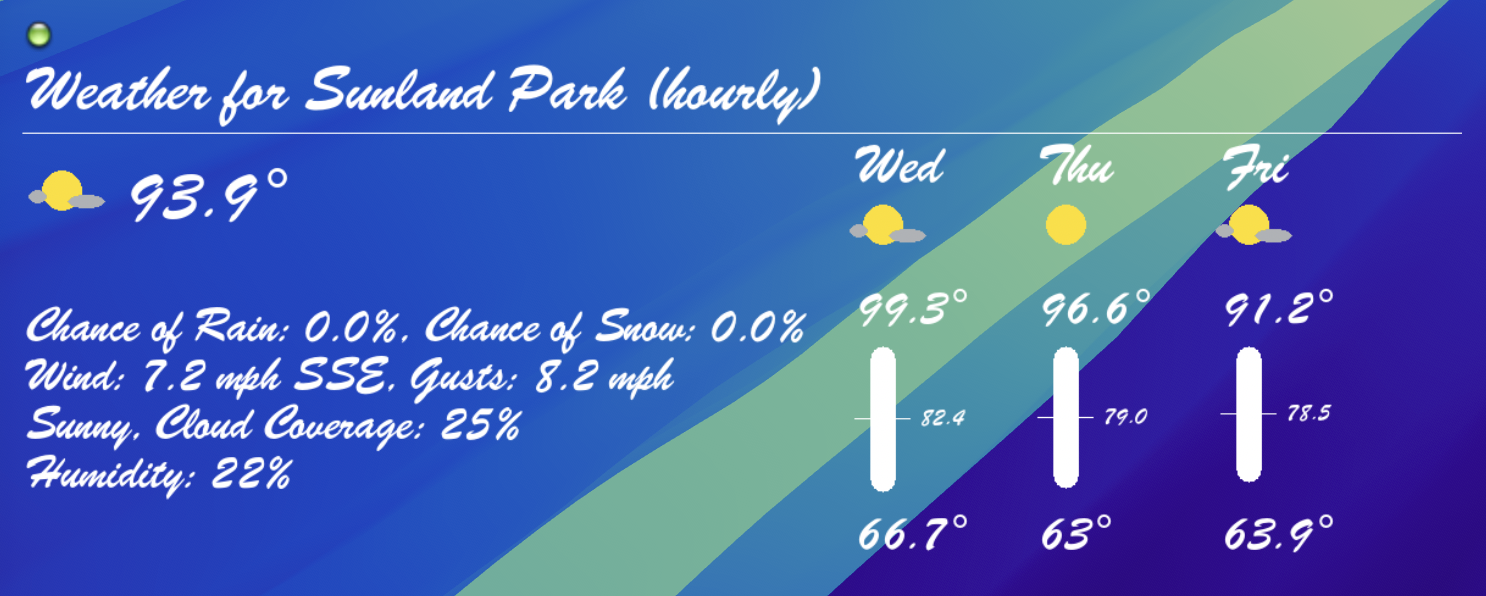
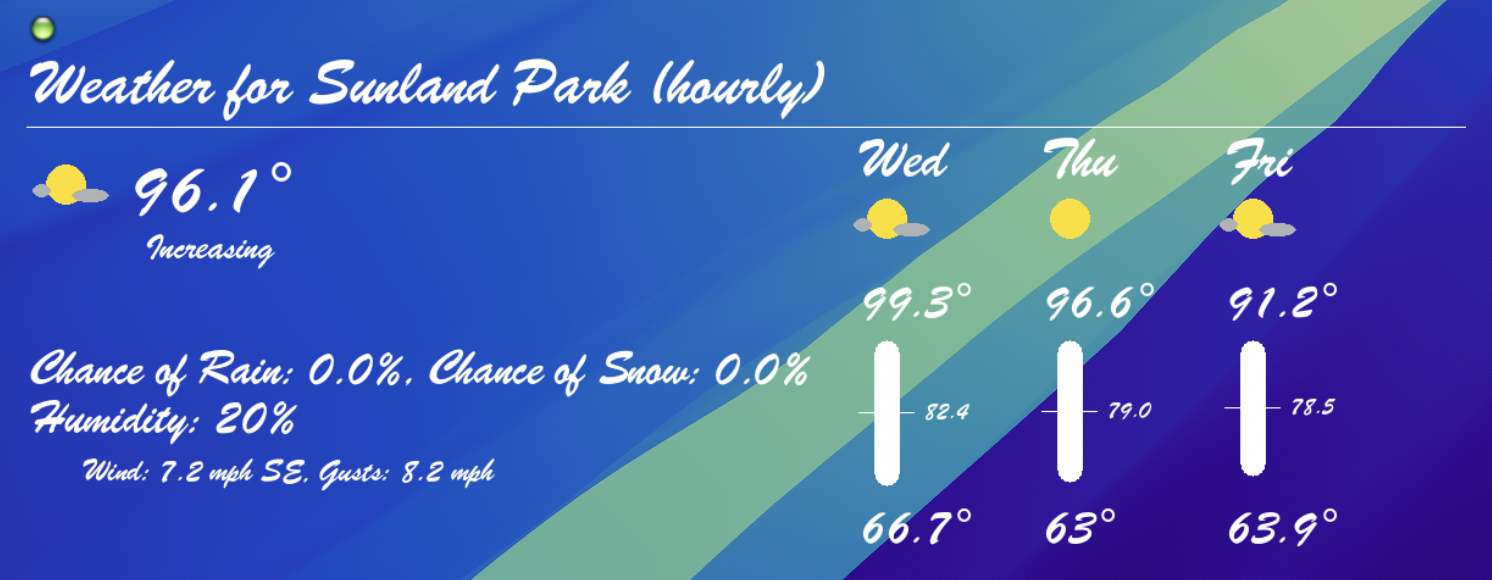
minor revisions to text/placements

diff --git a/app/Console/Commands/GenerateWeatherImage.php b/app/Console/Commands/GenerateWeatherImage.php
@@ -123,6 +123,20 @@ class GenerateWeatherImage extends Command
 
         $conditionText      = $this->current['condition']['text'];
 
+        // Daily data
+        foreach( $this->forecast as $index => $day ) {
+
+            if( $index == 0 ) {
+
+                $this->rain_chance      = number_format( $this->determineRaininess( $day ), 1 );
+                $this->snow_chance      = number_format( $this->determineSnowiness( $day ), 1 );
+
+            }
+
+            $this->temp_direction       = $this->determineHeatDirection( $day );
+
+        }
+
         // Make transparent
         imagesavealpha($image, true);
         $transparent = imagecolorallocatealpha($image, 0, 0, 0, 127);
@@ -147,6 +161,10 @@ class GenerateWeatherImage extends Command
         $text = $this->current["temp_{$this->heat_unit}"]. '°';
         imagettftext($image, $this->font_size+8, 0, $leftMargin + 80, $currentY-22, $this->font_color, $this->font_family, $text);
 
+        // Increasing/decreasing
+        $currentY += 40;
+        imagettftext($image, max( $this->font_size-12, 10 ), 0, $leftMargin + 96, $currentY-22, $this->font_color, $this->font_family, $this->temp_direction );
+
         // Alert data
         $currentY += 40;
         if (isset($data['alerts']['alert'][0])) {
@@ -154,20 +172,15 @@ class GenerateWeatherImage extends Command
             imagettftext($image, $this->font_size, 0, $leftMargin, $currentY, $this->font_color, $this->font_family, $text);
         }
 
-        // Averages
-        foreach( $this->forecast as $index => $day ) {
-
-            if( $index == 0 ) {
-
-                $this->rain_chance      = number_format( $this->determineRaininess( $day ), 1 );
-                $this->snow_chance      = number_format( $this->determineSnowiness( $day ), 1 );
-
-            }
-
-        }
+        // Snow/Rain
         $currentY += 40;
         $text = "Chance of Rain: {$this->rain_chance}%, Chance of Snow: {$this->snow_chance}%";
         imagettftext($image, $this->font_size-5, 0, $leftMargin, $currentY, $this->font_color, $this->font_family, $text);
+
+        // Humidity
+        $currentY += 40;
+        $humidityText = "Humidity: " . $this->current['humidity'] . "%";
+        imagettftext($image, $this->font_size-5, 0, $leftMargin, $currentY, $this->font_color, $this->font_family, $humidityText);
 
         // Wind
         $currentY += 40;
@@ -177,17 +190,14 @@ class GenerateWeatherImage extends Command
             $text .= ", Gusts: " . $this->current["gust_{$this->speed_unit}"] . " {$this->speed_unit}";
 
         }
-        imagettftext($image, $this->font_size-5, 0, $leftMargin, $currentY, $this->font_color, $this->font_family, $text);
+        imagettftext($image, max( $this->font_size-15, 10 ), 0, $leftMargin+45, $currentY, $this->font_color, $this->font_family, $text);
 
-        // Clouds
+        // Condition/Clouds
+        /*
         $currentY += 40;
         $text = "$conditionText, Cloud Coverage: " . $this->current['cloud'] . "%";
         imagettftext($image, $this->font_size-5, 0, $leftMargin, $currentY, $this->font_color, $this->font_family, $text);
-
-        // Humidity
-        $currentY += 40;
-        $humidityText = "Humidity: " . $this->current['humidity'] . "%";
-        imagettftext($image, $this->font_size-5, 0, $leftMargin, $currentY, $this->font_color, $this->font_family, $humidityText);
+        */
 
         // --- Right side: 3-day forecast ---
         $rightMargin = 650;
@@ -307,6 +317,34 @@ class GenerateWeatherImage extends Command
         $imagePath = public_path('images/out.png');
         imagepng($image, $imagePath);
         imagedestroy($image);
+    }
+
+    private function determineHeatDirection( $day )
+    {
+
+        $currentDateTime    = new \DateTime();
+
+        $futureDateTime     = new \DateTime();
+
+        $currentHour        = $currentDateTime->format('H');
+
+        $futureDateTime->modify('+3 hours');
+
+        $futureHour         = $futureDateTime->format('H');
+
+        $futureIndex        = $day['hour'][$futureHour] or 1;
+
+        $currentIndex       = $day['hour'][$currentHour] or 0;
+
+        if( $futureIndex["temp_{$this->heat_unit}"] > $currentIndex["temp_{$this->heat_unit}"] ) {
+
+            return 'Decreasing';
+
+        } else {
+
+            return 'Increasing';
+        }
+
     }
 
     private function determineSnowiness( $day )

diff --git a/README.md b/README.md
@@ -16,7 +16,7 @@ PHP, GeekTool, WeatherAPI account (yes, it is free)
 ## How
 Note:
 - Requires GeekTool, which can be downloaded from https://www.tynsoe.org/geektool/
-- Requires a weather API key from https://weatherapi.com
+- Requires a weather API key from https://www.weatherapi.com/
 
 - Register App for use at weatherapi.com
 - Generate your API key
